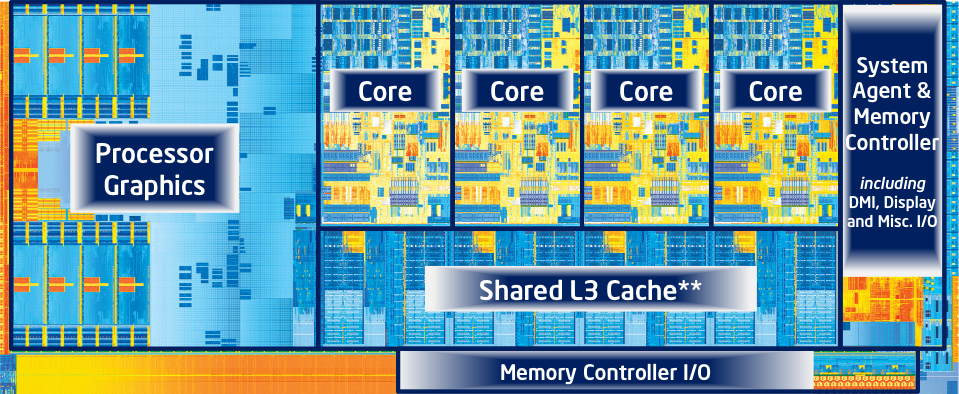
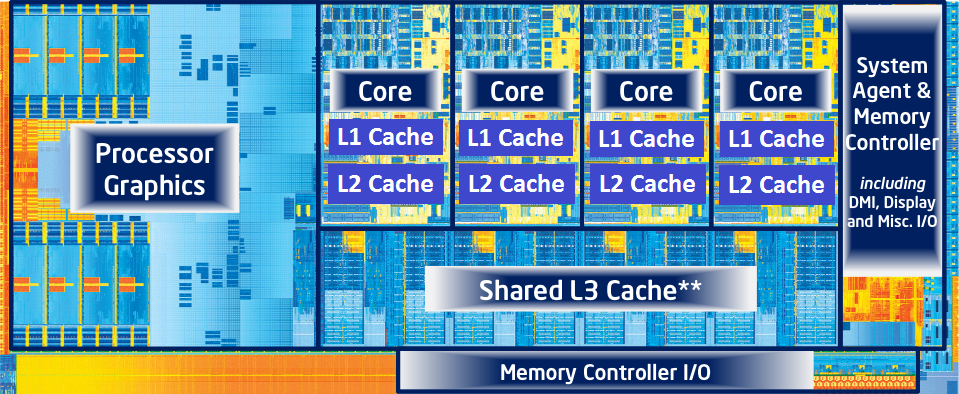
* Added level 1 & 2 caches to ivy_bridge.png * Finished CPU chapter

Changed region(s): [[0.3326, 0.3046, 0.877, 0.5178]]

diff --git a/latex/opencl.tex b/latex/opencl.tex
@@ -44,29 +44,35 @@ A closer look into the architectures of the two most common hardware devices, na
 
 \subsubsection{The Central Processing Unit (CPU)}
 
-\begin{figure} % http://www.bakesi.com/2012/12/intel-core-processors-may-soon-get-less.html
+\begin{figure}[h] % http://www.bakesi.com/2012/12/intel-core-processors-may-soon-get-less.html and cache hierarchy: http://hothardware.com/Reviews/Intel-Core-i7-Mobile-Processor-Launch-Review/?page=2
 \centering
 \includegraphics[width=0.9\linewidth]{ivy_bridge}
 \caption{Architectural overview of an Intel Ivy Bridge Processor \cite{}}
 \label{fig:ivy_bridge}
 \end{figure}
 
-The CPU is the kind of processors developers are mostly used to. Software written in common languages like C++, Java or C# is directly or indirectly (using a Virtual Machine) executed on this kind of hardware.
-In figure \ref{fig:ivy_bridge} you can see the design of a modern processor by the example of an Intel Ivy Bridge quad-core. One can clearly see the four physical cores of the processor. 
+The CPU is the kind of processors developers are mostly used to. Software written in common languages like C++, Java or C\# is directly or indirectly (using a Virtual Machine) executed on this kind of hardware.
+In figure \ref{fig:ivy_bridge} you can see the design of a modern processor by the example of an Intel Ivy Bridge quad-core. One can clearly see the four physical cores of the processor. Thanks to hardware multithreading (Hyper-threading in Intel terms) each physical core can process a pair of threads which are seen as two virtual CPUs by the operation system resulting in 8 available cores for an application.
+
+When it comes down to calculative throughput and the problem offers some degree of data parallelism (several chunks of data are processed equally), SIMD (Single Instruction Multiple Data) features of the CPU can be used to multiply the number of input elements an instruction can process. Intel's Ivy Bridge for example allows the parallel execution (vectorization) of up to four (SSE4 - Streaming SIMD Extensions 4) or eight (AVX - Advanced Vector Extensions) single precision floating point operations.
+
+Considering memory access, the CPU uses the standard data bus to communicate with the external main memory. As this communication usually takes a while (up to hundreds or even thousands of CPU cycles  \cite[p. 54]{opencl_book}) the CPU uses a hierarchical cache system. Each core has it's own level one and level two cache, which have to be kept synchronized. All cores share a common level three cache that is then connected to the memory controller.
+
+From a performance concerned developer's perspective, all we have to pay attention to is to have enough parallelism in our application to utilize all cores of our CPU (which is a number around 2, 4, or 8). If our application has to process large amounts of data using the same operations on elements of the input (e.g. multimedia applications like image or video processing), vector instructions may be used to speed up execution. Regarding memory, beside small tips to improve cache effects the developer has only limited power to optimize, as the entire cache system is controlled by the CPU and operation system. 
 
 
 \subsubsection{The Graphics Processing Unit (GPU)}
 
 When we think of a GPU 
 
-\begin{figure}
+\begin{figure}[h]
 \centering
 \includegraphics[width=0.9\linewidth]{kepler_arch}
 \caption{Full chip block diagram of NVIDIA's Kepler GK110 architecture containing 15 Streaming Multiprocessors (SMX) \cite{kepler_arch}.}
 \label{fig:kepler_arch}
 \end{figure}
 
-\begin{figure}
+\begin{figure}[h]
 \centering
 \includegraphics[width=0.9\linewidth]{kepler_arch_smx}
 \caption{Architecture of a Streaming Multiprocessor (SMX) of NVIDIA's Kepler GK110 architecture containing 192 single‐precision CUDA cores, 64 double‐precision units, 32 special function units (SFU), and 32 load/store units (LD/ST) \cite{kepler_arch}.}
